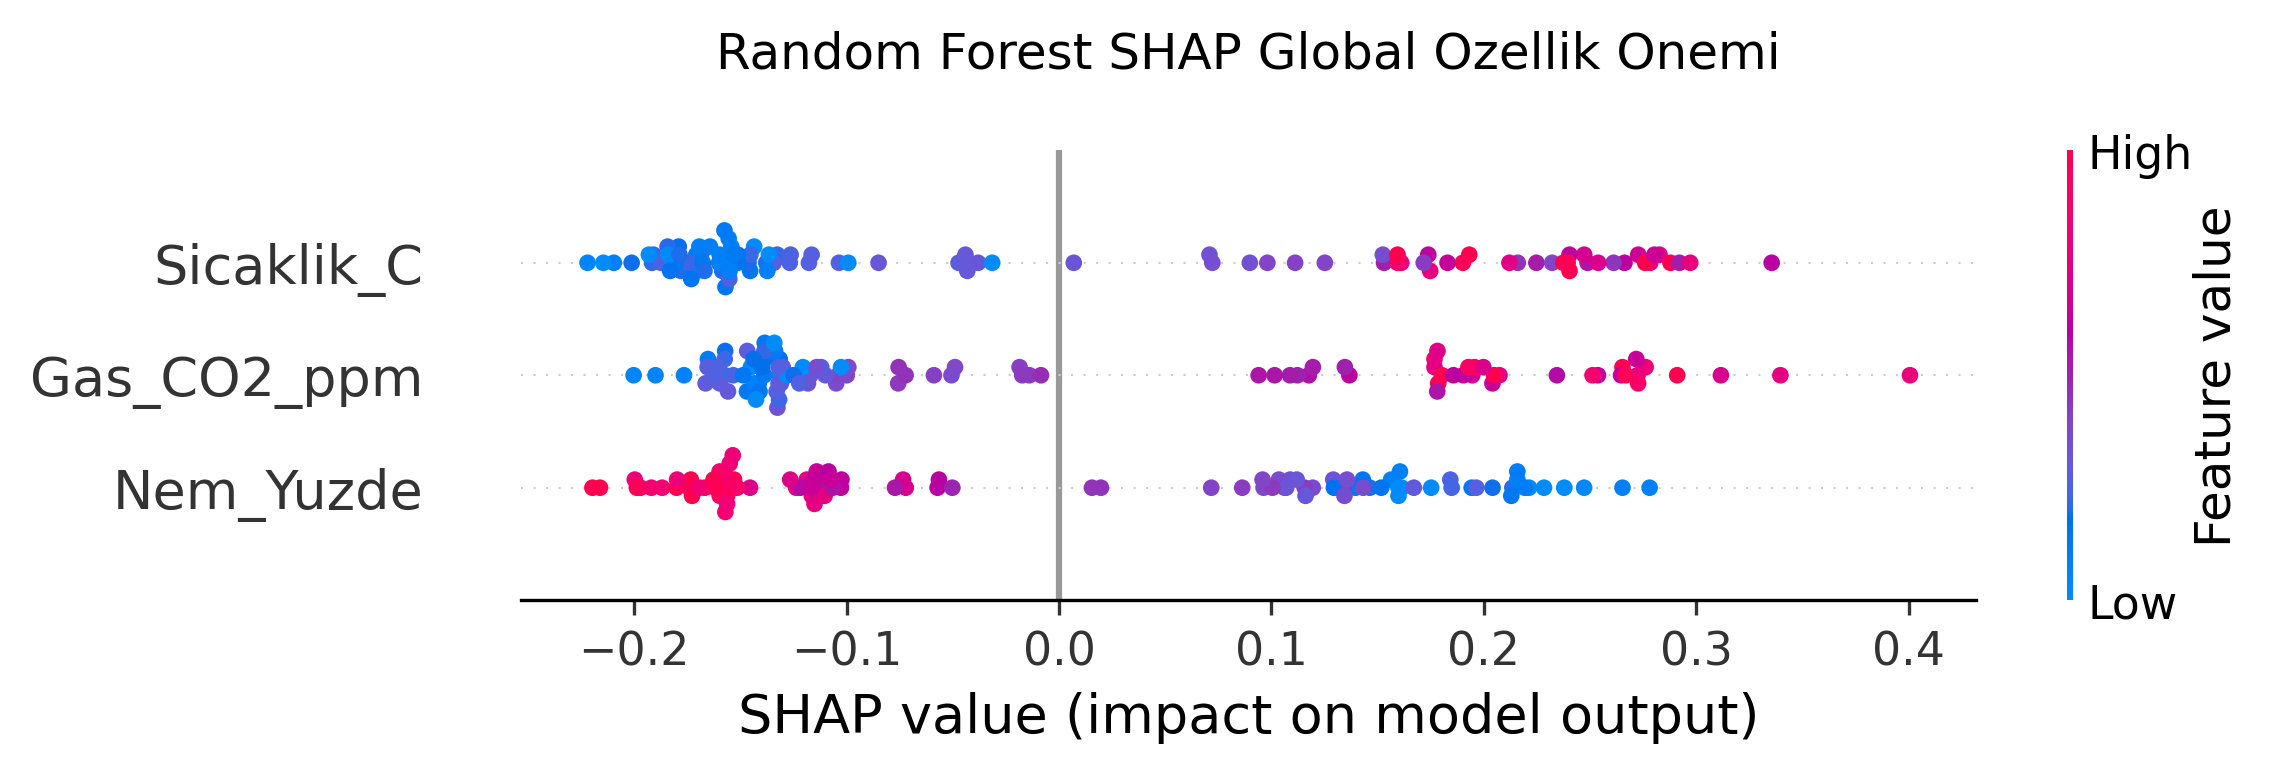
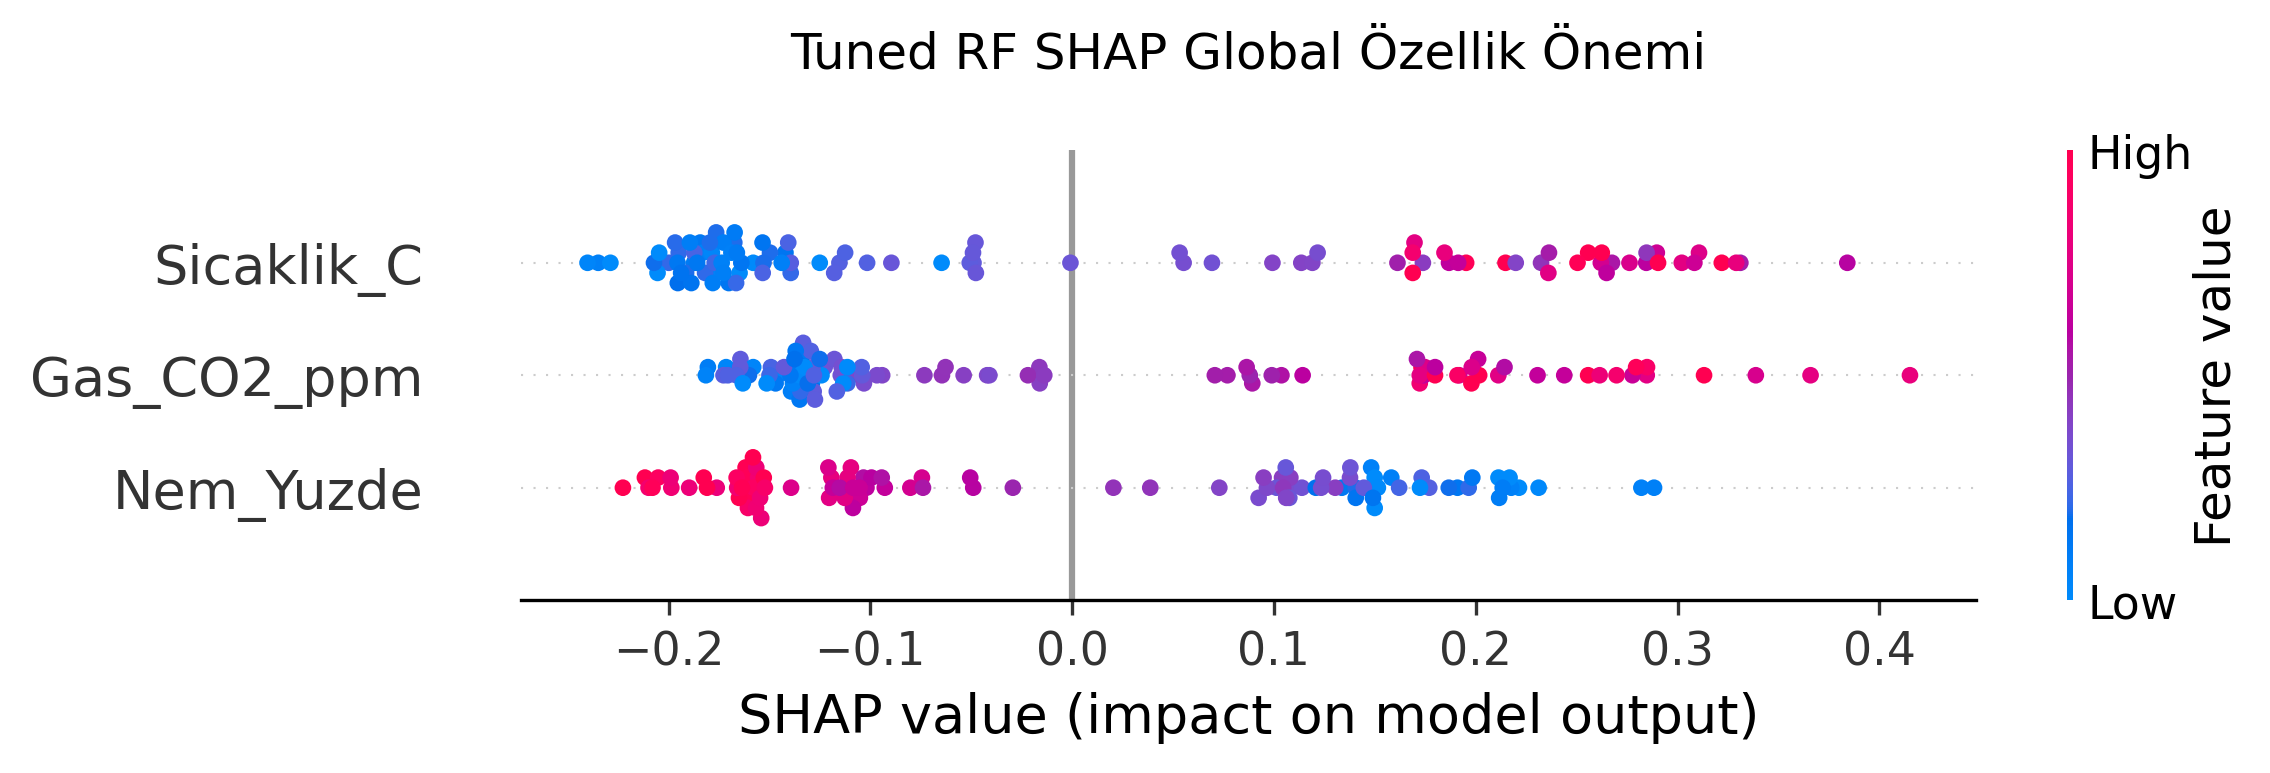
MLOps modeli (.pkl), README vitrini, 10-Fold CV skorlari

diff --git a/src/main.py b/src/main.py
@@ -1,15 +1,18 @@
 # -*- coding: utf-8 -*-
 import os
+import joblib
 import numpy as np
 import pandas as pd
 import matplotlib.pyplot as plt
 import seaborn as sns
-from sklearn.model_selection import train_test_split, StratifiedKFold, cross_validate
+
+from sklearn.model_selection import train_test_split, StratifiedKFold, cross_val_score, GridSearchCV
 from sklearn.tree import DecisionTreeClassifier
 from sklearn.naive_bayes import GaussianNB
-from sklearn.ensemble import RandomForestClassifier
-from sklearn.metrics import classification_report, accuracy_score, confusion_matrix, roc_curve, auc
-from statsmodels.sandbox.stats.runs import mcnemar
+from sklearn.ensemble import RandomForestClassifier, AdaBoostClassifier
+from sklearn.metrics import accuracy_score, confusion_matrix, roc_curve, auc
+
+from statsmodels.stats.contingency_tables import mcnemar
 import shap
 
 # --- KLASÖR YOLLARINI AYARLAMA ---
@@ -39,22 +42,60 @@ plt.title("Sensor Verileri Korelasyon Matrisi (EDA)")
 plt.tight_layout()
 plt.savefig(os.path.join(OUT_DIR, "correlation_heatmap.png"), dpi=300)
 
+# --- 2. GÖRSEL: EDA BOXPLOTS ---
+fig, axes = plt.subplots(1, 3, figsize=(15, 5))
+sns.boxplot(x='Yangin_Durumu', y='Sicaklik_C', data=df, ax=axes[0], hue='Yangin_Durumu', palette="Set2", legend=False)
+axes[0].set_title('Sıcaklık Dağılımı')
+sns.boxplot(x='Yangin_Durumu', y='Nem_Yuzde', data=df, ax=axes[1], hue='Yangin_Durumu', palette="Set2", legend=False)
+axes[1].set_title('Nem Dağılımı')
+sns.boxplot(x='Yangin_Durumu', y='Gas_CO2_ppm', data=df, ax=axes[2], hue='Yangin_Durumu', palette="Set2", legend=False)
+axes[2].set_title('CO2 Dağılımı')
+plt.suptitle('Sensör Verilerinin Hedef Sınıfa Göre Dağılımı')
+plt.tight_layout()
+plt.savefig(os.path.join(OUT_DIR, "eda_boxplots.png"), dpi=300)
+
 X = df[['Sicaklik_C', 'Nem_Yuzde', 'Gas_CO2_ppm']]
 y = df['Yangin_Durumu']
 X_train, X_test, y_train, y_test = train_test_split(X, y, test_size=0.20, random_state=42, stratify=y)
 
+print("\n... CRISP-DM Adım 3 & 4: Modelleme ve Değerlendirme Başlatılıyor ...")
+
+# RandomForest için GridSearchCV
+print("\n[GridSearchCV] Random Forest modeli için hiperparametre optimizasyonu yapılıyor...")
+rf_param_grid = {'n_estimators': [50, 100, 200], 'max_depth': [3, 5, 7]}
+rf_grid = GridSearchCV(RandomForestClassifier(random_state=42), rf_param_grid, cv=5, scoring='accuracy')
+rf_grid.fit(X_train, y_train)
+tuned_rf = rf_grid.best_estimator_
+print(f"En iyi Random Forest Parametreleri: {rf_grid.best_params_}")
+
 modeller = {
     "Naive Bayes": GaussianNB(),
     "Karar Agaci": DecisionTreeClassifier(max_depth=3, random_state=42),
-    "Random Forest": RandomForestClassifier(n_estimators=50, max_depth=3, random_state=42)
+    "Tuned RF": tuned_rf,
+    "AdaBoost": AdaBoostClassifier(n_estimators=50, random_state=42)
 }
 
-# --- 2. GÖRSEL: ROC EĞRİSİ (EVALUATION) ---
-plt.figure(figsize=(8, 6))
+# --- 10-Fold Stratified CV ---
+print("\n=== 10-Fold Stratified Cross-Validation Sonuçları ===")
+cv = StratifiedKFold(n_splits=10, shuffle=True, random_state=42)
+for isim, model in modeller.items():
+    scores = cross_val_score(model, X, y, cv=cv, scoring='accuracy')
+    print(f"{isim:15s}: Mean Accuracy = {scores.mean():.4f} (Std = {scores.std():.4f})")
+
+# Modelleri Holdout set (Test Set) üzerinde değerlendirme
+y_preds = {}
+y_probs = {}
+
 for isim, model in modeller.items():
     model.fit(X_train, y_train)
-    y_prob = model.predict_proba(X_test)[:, 1]
-    fpr, tpr, _ = roc_curve(y_test, y_prob)
+    y_preds[isim] = model.predict(X_test)
+    if hasattr(model, "predict_proba"):
+        y_probs[isim] = model.predict_proba(X_test)[:, 1]
+
+# --- 3. GÖRSEL: ROC EĞRİSİ (EVALUATION) ---
+plt.figure(figsize=(8, 6))
+for isim in modeller.keys():
+    fpr, tpr, _ = roc_curve(y_test, y_probs[isim])
     roc_auc = auc(fpr, tpr)
     plt.plot(fpr, tpr, label=f'{isim} (AUC = {roc_auc:.3f})')
 
@@ -67,20 +108,67 @@ plt.grid(alpha=0.3)
 plt.tight_layout()
 plt.savefig(os.path.join(OUT_DIR, "roc_curve_comparison.png"), dpi=300)
 
-print("\n=== MCNEMAR TESTİ VE SHAP ANALİZİ ===")
-rf_model = modeller["Random Forest"]
-explainer = shap.TreeExplainer(rf_model)
+# --- 4. GÖRSEL: CONFUSION MATRICES ---
+fig, axes = plt.subplots(2, 2, figsize=(10, 10))
+axes = axes.ravel()
+for idx, (isim, y_pred) in enumerate(y_preds.items()):
+    cm = confusion_matrix(y_test, y_pred)
+    sns.heatmap(cm, annot=True, fmt='d', cmap='Blues', ax=axes[idx], cbar=False)
+    axes[idx].set_title(f'{isim} Confusion Matrix')
+    axes[idx].set_xlabel('Tahmin Edilen Sınıf')
+    axes[idx].set_ylabel('Gerçek Sınıf')
+plt.tight_layout()
+plt.savefig(os.path.join(OUT_DIR, "confusion_matrices.png"), dpi=300)
+
+print("\n=== MCNEMAR TESTİ ===")
+# McNemar Testi: Tuned RF ve AdaBoost
+rf_pred = y_preds["Tuned RF"]
+ada_pred = y_preds["AdaBoost"]
+
+# Contingency table oluşturma
+a = np.sum((rf_pred == y_test) & (ada_pred == y_test))
+b = np.sum((rf_pred == y_test) & (ada_pred != y_test))
+c = np.sum((rf_pred != y_test) & (ada_pred == y_test))
+d = np.sum((rf_pred != y_test) & (ada_pred != y_test))
+table = [[a, b], [c, d]]
+
+result = mcnemar(table, exact=True)
+print(f"Tuned RF vs AdaBoost McNemar Test p-değeri: {result.pvalue:.4f}")
+if result.pvalue < 0.05:
+    print("Sonuç: İki modelin performansı arasında istatistiksel olarak anlamlı bir fark VARDIR.")
+else:
+    print("Sonuç: İki modelin performansı arasında istatistiksel olarak anlamlı bir fark YOKTUR.")
+
+print("\n=== SHAP ANALİZİ ===")
+# --- 5. GÖRSEL: SHAP SUMMARY PLOT ---
+# Use Tuned RF for SHAP
+explainer = shap.TreeExplainer(tuned_rf)
 shap_values_obj = explainer(X_test)
 
-# --- 3. GÖRSEL: SHAP SUMMARY PLOT ---
 plt.close('all')
 fig = plt.figure(figsize=(10, 5))
-if len(shap_values_obj.shape) == 3:
+if len(shap_values_obj.shape) == 3: # For binary classification in some sklearn versions
     shap.plots.beeswarm(shap_values_obj[:, :, 1], show=False)
 else:
     shap.plots.beeswarm(shap_values_obj, show=False)
-plt.title("Random Forest SHAP Global Ozellik Onemi", fontsize=12, pad=20)
+plt.title("Tuned RF SHAP Global Özellik Önemi", fontsize=12, pad=20)
 plt.tight_layout()
 plt.savefig(os.path.join(OUT_DIR, "shap_summary.png"), dpi=300, bbox_inches='tight')
 
-print(f"[BİLGİ] Tüm veriler {DATA_DIR} klasörüne, tüm grafikler {OUT_DIR} klasörüne başarıyla kaydedildi!")
+# --- 6. GÖRSEL: SHAP WATERFALL PLOT ---
+plt.close('all')
+fig = plt.figure(figsize=(10, 5))
+if len(shap_values_obj.shape) == 3:
+    shap.plots.waterfall(shap_values_obj[0, :, 1], show=False)
+else:
+    shap.plots.waterfall(shap_values_obj[0], show=False)
+plt.title("Tuned RF SHAP Local Açıklanabilirlik (Test İndeks 0)", fontsize=12, pad=20)
+plt.tight_layout()
+plt.savefig(os.path.join(OUT_DIR, "shap_waterfall.png"), dpi=300, bbox_inches='tight')
+
+print(f"\n[BİLGİ] Tüm veriler {DATA_DIR} klasörüne, tüm 6 adet grafik {OUT_DIR} klasörüne başarıyla kaydedildi!")
+
+# --- MLOps: MODEL KAYDETME ---
+model_path = os.path.join(OUT_DIR, "best_rf_model.pkl")
+joblib.dump(tuned_rf, model_path)
+print("[BASARILI] MLOps: En iyi Random Forest modeli 'outputs/best_rf_model.pkl' olarak kaydedildi.")

diff --git a/README.md b/README.md
@@ -1,13 +1,28 @@
-# IoT Sensor CRISP-DM ve XAI Yangın Analizi
+# 🔥 IoT Tabanlı Çoklu Sensör Yangın Algılama Sistemi
 
-Bu proje, akıllı ev sistemleri için DHT11 ve MQ-2 sensör verilerini kullanarak CRISP-DM metodolojisi ile uçtan uca bir makine öğrenmesi boru hattı (pipeline) kurmaktadır.
+Bu proje, Nesnelerin İnterneti (IoT) tabanlı akıllı ev ve endüstriyel tesis güvenlik sistemlerinde kritik bir öneme sahip olan çoklu sensör yangın algılama mimarisini veri madenciliği perspektifinden ele almaktadır. 
 
-## Klasör Yapısı
-- `data/`: Sentetik olarak üretilen ve dengelenmiş ham sensör verileri.
-- `notebooks/`: EDA (Keşifçi Veri Analizi) süreçlerinin yürütüldüğü Jupyter ortamları.
-- `src/`: Modelin eğitildiği, XAI (SHAP) ve McNemar testlerinin yapıldığı kaynak kodları.
-- `outputs/`: Modelleme sonucunda üretilen ROC eğrileri, Korelasyon matrisleri ve SHAP açıklanabilirlik grafikleri.
+Çalışma, endüstri standardı olan **CRISP-DM** metodolojisine uygun olarak uçtan uca tasarlanmıştır. Geleneksel tek eşikli dedektörlerin yanlış alarm problemlerini aşmak için *Sıcaklık, Nem ve CO2* parametreleri simüle edilmiş ve makine öğrenmesi algoritmalarıyla analiz edilmiştir. 
 
-## Kurulum ve Çalıştırma
-1. Gerekli kütüphaneleri kurun: `pip install -r requirements.txt`
-2. Modeli ve analizleri başlatmak için: `python src/main.py`
+**Projenin Öne Çıkan Özellikleri (+1 Boyut):**
+* Temel Modellere (Naive Bayes, Karar Ağacı) ek olarak Topluluk Öğrenmesi rekabeti: **Bagging (Random Forest) vs Boosting (AdaBoost)**.
+* **GridSearchCV** ile hiperparametre optimizasyonu.
+* Veri sızıntısını (Data Leakage) kökten engelleyen katı veri hazırlığı ve **10-Fold Stratified Cross-Validation**.
+* **McNemar İstatistiksel Anlamlılık Testi**.
+* Modelin kara kutu (black-box) yapısını şeffaflaştıran **XAI (SHAP Beeswarm ve Local Waterfall)** analizleri.
+* **MLOps Standartları:** Eğitilen en iyi modelin `.pkl` formatında export edilerek canlıya (deployment) hazır hale getirilmesi.
+
+---
+
+## 📁 Klasör Yapısı (MLOps Pipeline)
+
+Proje, spagetti kodlamadan uzak, kurumsal bir yazılım mimarisiyle tasarlanmıştır:
+
+```text
+VeriMadenciligi_Projesi/
+├── data/                  # Üretilen ham sensör verisi (sensor_data.csv)
+├── src/                   # Ana makine öğrenmesi boru hattı (main.py)
+├── notebooks/             # Keşifçi veri analizi (EDA_Analizi.ipynb)
+├── outputs/               # Grafik çıktıları ve eğitilmiş (.pkl) model
+├── requirements.txt       # Proje bağımlılıkları ve kütüphaneler
+└── README.md              # Proje dökümantasyonu